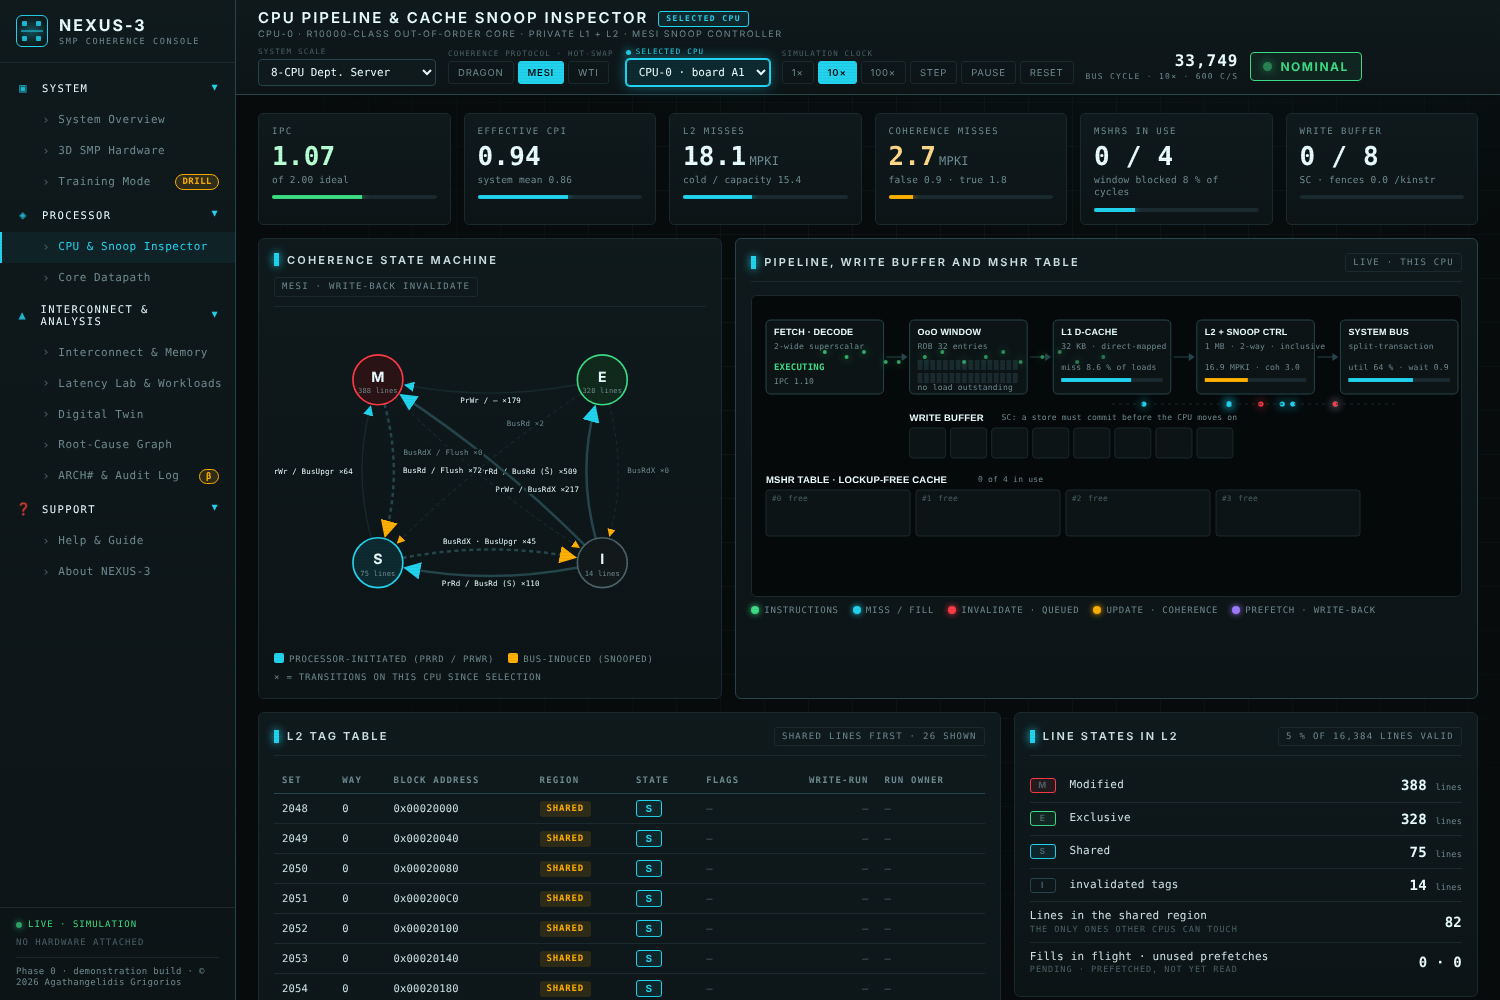
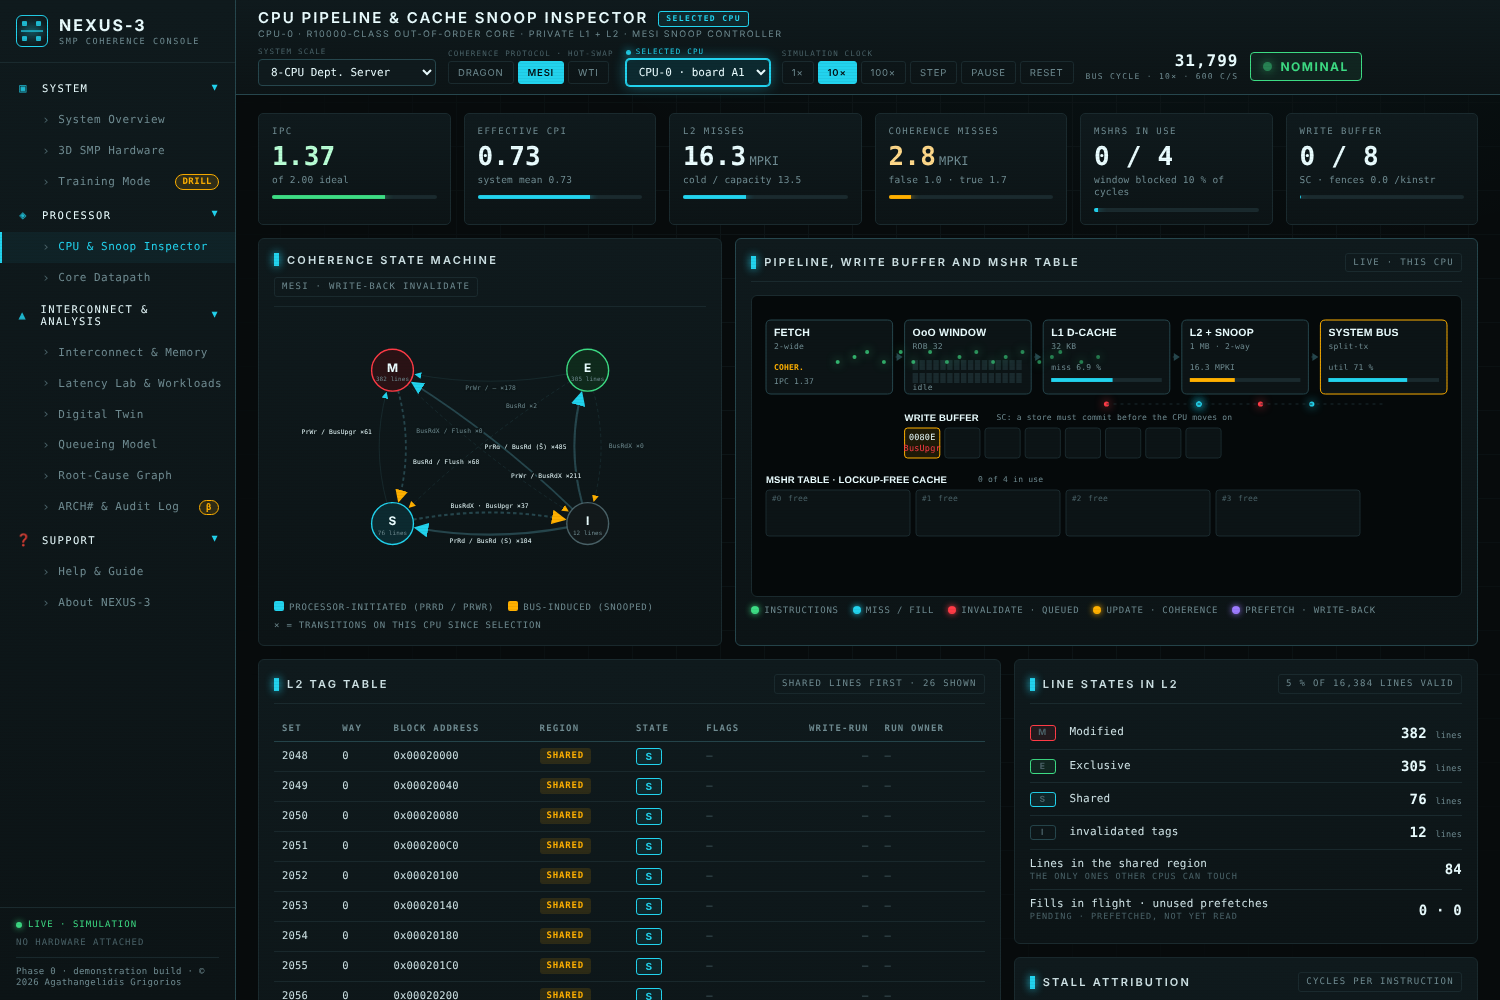
Inspector: fit the pipeline panel, untangle state-diagram labels
- The pipeline, write buffer and MSHR drawing now fits its panel at
  narrow widths instead of being clipped on the right
- The MESI and Dragon state diagrams are wider and their transition
  labels no longer overlap in the centre

Claude-Session: https://claude.ai/code/session_019sxTWBkDigedqxgQFNV5pf

diff --git a/index.html b/index.html
@@ -1365,14 +1365,14 @@ NX.page_('overview',{title:'System Overview',scope:'system',seluse:'partial',
 
 /* ================= PIPELINE & SNOOP INSPECTOR ================= */
 var FSM={
-  MESI:{nodes:{3:[125,72,'M','Modified'],2:[395,72,'E','Exclusive'],1:[125,292,'S','Shared'],0:[395,292,'I','Invalid']},
-    edges:[[0,2,'PrRd / BusRd (S̄)',['0>2:PrRd'],'p',-30],[0,1,'PrRd / BusRd (S)',['0>1:PrRd'],'p',-26],[0,3,'PrWr / BusRdX',['0>3:PrWr'],'p',18,.3],[2,3,'PrWr / —',['2>3:PrWr'],'p',-26],[1,3,'PrWr / BusUpgr',['1>3:PrWr'],'p',-30],
-      [3,1,'BusRd / Flush',['3>1:BusRd'],'b',-30],[2,1,'BusRd',['2>1:BusRd'],'b',18,.26],[3,0,'BusRdX / Flush',['3>0:BusRdX'],'b',18,.3],[2,0,'BusRdX',['2>0:BusRdX'],'b',-30],[1,0,'BusRdX · BusUpgr',['1>0:BusRdX','1>0:BusUpgr'],'b',-26]]},
-  DRAGON:{nodes:{2:[125,82,'E','Exclusive'],1:[395,82,'Sc','Shared-Clean'],4:[395,292,'Sm','Shared-Mod · owner'],3:[125,292,'M','Modified']},
-    edges:[[2,3,'PrWr / —',['2>3:PrWr'],'p',26],[2,1,'BusRd',['2>1:BusRd'],'b',-22],[1,4,'PrWr / BusUpd (S)',['1>4:PrWr'],'p',-30],[1,3,'PrWr / BusUpd (S̄)',['1>3:PrWr'],'p',16,.42],
-      [4,1,'BusUpd',['4>1:BusUpd'],'b',-30],[4,3,'PrWr / BusUpd (S̄)',['4>3:PrWr'],'p',-26],[3,4,'BusRd / supply',['3>4:BusRd'],'b',-26],[4,4,'PrWr / BusUpd (S)',['4>4:PrWr'],'p',0],
+  MESI:{nodes:{3:[170,72,'M','Modified'],2:[450,72,'E','Exclusive'],1:[170,292,'S','Shared'],0:[450,292,'I','Invalid']},
+    edges:[[0,2,'PrRd / BusRd (S̄)',['0>2:PrRd'],'p',-30,.5],[0,1,'PrRd / BusRd (S)',['0>1:PrRd'],'p',-26],[0,3,'PrWr / BusRdX',['0>3:PrWr'],'p',18,.2],[2,3,'PrWr / —',['2>3:PrWr'],'p',-26],[1,3,'PrWr / BusUpgr',['1>3:PrWr'],'p',-30,.64],
+      [3,1,'BusRd / Flush',['3>1:BusRd'],'b',-30,.64],[2,1,'BusRd',['2>1:BusRd'],'b',18,.26],[3,0,'BusRdX / Flush',['3>0:BusRdX'],'b',18,.3],[2,0,'BusRdX',['2>0:BusRdX'],'b',-30,.5],[1,0,'BusRdX · BusUpgr',['1>0:BusRdX','1>0:BusUpgr'],'b',-26]]},
+  DRAGON:{nodes:{2:[170,82,'E','Exclusive'],1:[450,82,'Sc','Shared-Clean'],4:[450,292,'Sm','Shared-Mod · owner'],3:[170,292,'M','Modified']},
+    edges:[[2,3,'PrWr / —',['2>3:PrWr'],'p',26],[2,1,'BusRd',['2>1:BusRd'],'b',-22],[1,4,'PrWr / BusUpd (S)',['1>4:PrWr'],'p',-30,.36],[1,3,'PrWr / BusUpd (S̄)',['1>3:PrWr'],'p',16,.42],
+      [4,1,'BusUpd',['4>1:BusUpd'],'b',-30,.36],[4,3,'PrWr / BusUpd (S̄)',['4>3:PrWr'],'p',-26],[3,4,'BusRd / supply',['3>4:BusRd'],'b',-26],[4,4,'PrWr / BusUpd (S)',['4>4:PrWr'],'p',0],
       [-1,2,'PrRdMiss / BusRd (S̄)',['0>2:PrRd'],'p',0],[-2,1,'PrRdMiss / BusRd (S)',['0>1:PrRd'],'p',0]]},
-  WTI:{nodes:{1:[130,150,'V','Valid'],0:[390,150,'I','Invalid']},
+  WTI:{nodes:{1:[175,150,'V','Valid'],0:[435,150,'I','Invalid']},
     edges:[[0,1,'PrRd / BusRd',['0>1:PrRd'],'p',-44],[1,0,'BusWr (remote write)',['1>0:BusWr'],'b',-44],[1,1,'PrWr / BusWr',[],'p',0]]}
 };
 function fsmSVG(proto,sfx){sfx=sfx||'';
@@ -1393,13 +1393,14 @@ function fsmSVG(proto,sfx){sfx=sfx||'';
   });
   Object.keys(F.nodes).forEach(function(k){var nd=F.nodes[k],sc=['#4a6268',COL.cyan,COL.green,COL.red,COL.amber][k];
     o+='<g class="st"><circle id="fn'+sfx+'-'+k+'" cx="'+nd[0]+'" cy="'+nd[1]+'" r="'+R+'" fill="#0c1416" stroke="'+sc+'" stroke-width="2"/><text x="'+nd[0]+'" y="'+(nd[1]+2)+'">'+nd[2]+'</text><text class="cnt" id="fc'+sfx+'-'+k+'" x="'+nd[0]+'" y="'+(nd[1]+16)+'">'+(sfx?'':'0')+'</text></g>';});
-  return'<svg class="fsm" viewBox="0 0 520 '+(proto==='WTI'?250:392)+'" role="img" aria-label="'+proto+' state-transition diagram">'+o+'</svg>';
+  return'<svg class="fsm" viewBox="0 0 620 '+(proto==='WTI'?250:392)+'" role="img" aria-label="'+proto+' state-transition diagram">'+o+'</svg>';
 }
 var INS={proto:'',prev:{},fire:{},tokens:[],seen:0,ins:0};
 function drawPipe(cv,ts,dt){
   var c=ctx2d(cv),W=c.W,H=c.H,eng=NX.eng,cc=eng.cpu[NX.sel],mc=NX.m.cpus[NX.sel],i;
-  var x0=14,bw=(W-28-4*26)/5,by=24,bh=74,X=function(k){return x0+k*(bw+26);};
-  var names=['FETCH · DECODE','OoO WINDOW','L1 D-CACHE','L2 + SNOOP CTRL','SYSTEM BUS'],subs=[T.WIDTH+'-wide superscalar','ROB '+T.ROB+' entries',T.L1KB+' KB · direct-mapped',(NX.cfg.l2KB>=1024?NX.cfg.l2KB/1024+' MB':NX.cfg.l2KB+' KB')+' · 2-way · inclusive','split-transaction'];
+  var gp=W<760?12:26,x0=14,bw=(W-28-4*gp)/5,cpt=bw<128,by=24,bh=74,X=function(k){return x0+k*(bw+gp);};
+  var names=['FETCH · DECODE','OoO WINDOW','L1 D-CACHE','L2 + SNOOP CTRL','SYSTEM BUS'],subs=cpt?[T.WIDTH+'-wide','ROB '+T.ROB,T.L1KB+' KB',(NX.cfg.l2KB>=1024?NX.cfg.l2KB/1024+' MB':NX.cfg.l2KB+' KB')+' · 2-way','split-tx']:[T.WIDTH+'-wide superscalar','ROB '+T.ROB+' entries',T.L1KB+' KB · direct-mapped',(NX.cfg.l2KB>=1024?NX.cfg.l2KB/1024+' MB':NX.cfg.l2KB+' KB')+' · 2-way · inclusive','split-transaction'];
+  if(cpt)names=['FETCH','OoO WINDOW','L1 D-CACHE','L2 + SNOOP','SYSTEM BUS'];
   c.textBaseline='middle';
   for(i=0;i<5;i++){
     c.fillStyle='#0c1416';c.strokeStyle=i===4?(NX.m.bus.util>.9?COL.red:NX.m.bus.util>.65?COL.amber:COL.hot):COL.hot;c.lineWidth=1;rr(c,X(i),by,bw,bh,5);c.fill();c.stroke();
@@ -1409,19 +1410,19 @@ function drawPipe(cv,ts,dt){
   }
   /* fetch: activity */
   var cat=cc.lastCat,col=CATC[cat];
-  c.fillStyle=col;c.font='600 9px '+MONO;c.fillText(CATN[cat].toUpperCase(),X(0)+8,by+48);
+  c.fillStyle=col;c.font='600 '+(cpt?'8px ':'9px ')+MONO;c.fillText(cpt?CATN[cat].toUpperCase().replace(' STALL','').replace('COHERENCE','COHER.'):CATN[cat].toUpperCase(),X(0)+8,by+48);
   c.fillStyle=COL.dim;c.font='8px '+MONO;c.fillText('IPC '+f(mc.ipc,2),X(0)+8,by+62);
   /* ROB occupancy behind the oldest unresolved load */
   var od=null;for(i=0;i<cc.out.length;i++)if(!cc.out[i].pf&&!cc.out[i].forStore){od=cc.out[i];break;}
   var occ=od?clamp(cc.icnt-od.rob,0,T.ROB):0,cw=(bw-16)/16;
   for(i=0;i<T.ROB;i++){var rx=X(1)+8+(i%16)*cw,ry=by+40+(i>>4)*13;c.fillStyle=i<occ?(occ>=T.ROB?COL.red:COL.cyan):COL.line;c.fillRect(rx,ry,cw-1.5,10);}
-  c.fillStyle=COL.dim;c.font='8px '+MONO;c.fillText(od?'window '+occ+'/'+T.ROB+(occ>=T.ROB?' · BLOCKED':''):'no load outstanding',X(1)+8,by+bh-6);
+  c.fillStyle=COL.dim;c.font='8px '+MONO;c.fillText(od?(cpt?'':'window ')+occ+'/'+T.ROB+(occ>=T.ROB?(cpt?' BLOCKED':' · BLOCKED'):''):(cpt?'idle':'no load outstanding'),X(1)+8,by+bh-6);
   /* L1 / L2 */
-  c.fillStyle=COL.dim;c.fillText('miss '+pc(mc.l1_miss_rate,1)+' % of loads',X(2)+8,by+48);
+  c.fillStyle=COL.dim;c.fillText('miss '+pc(mc.l1_miss_rate,1)+(cpt?' %':' % of loads'),X(2)+8,by+48);
   c.fillStyle=COL.line;c.fillRect(X(2)+8,by+58,bw-16,4);c.fillStyle=COL.cyan;c.fillRect(X(2)+8,by+58,(bw-16)*clamp(mc.l1_miss_rate*8,0,1),4);
-  c.fillStyle=COL.dim;c.fillText(f(mc.l2_mpki,1)+' MPKI · coh '+f(mc.coh_mpki,1),X(3)+8,by+48);
+  c.fillStyle=COL.dim;c.fillText(f(mc.l2_mpki,1)+(cpt?' MPKI':' MPKI · coh '+f(mc.coh_mpki,1)),X(3)+8,by+48);
   c.fillStyle=COL.line;c.fillRect(X(3)+8,by+58,bw-16,4);c.fillStyle=COL.amber;c.fillRect(X(3)+8,by+58,(bw-16)*clamp(mc.l2_mpki/40,0,1),4);
-  c.fillStyle=COL.dim;c.fillText('util '+pc(NX.m.bus.util)+' % · wait '+f(mc.tx_wait,1),X(4)+8,by+48);
+  c.fillStyle=COL.dim;c.fillText('util '+pc(NX.m.bus.util)+(cpt?' %':' % · wait '+f(mc.tx_wait,1)),X(4)+8,by+48);
   c.fillStyle=COL.line;c.fillRect(X(4)+8,by+58,bw-16,4);c.fillStyle=NX.m.bus.util>.9?COL.red:COL.cyan;c.fillRect(X(4)+8,by+58,(bw-16)*NX.m.bus.util,4);
   /* write buffer */
   var wy=by+bh+34,wx=X(1),ww=X(3)+bw*.35-wx,sw=ww/T.WB;
@@ -1465,7 +1466,7 @@ NX.page_('inspector',{title:'CPU Pipeline & Cache Snoop Inspector',scope:'cpu',
   build:function(el){
     el.innerHTML='<div class="grid c6 mb">'+stat('in-ipc','IPC','green','')+stat('in-cpi','Effective CPI','','')+stat('in-mpki','L2 misses','','MPKI')+stat('in-coh','Coherence misses','amber','MPKI')+stat('in-mshr','MSHRs in use','','')+stat('in-wb','Write buffer','','')+'</div>'+
       '<div class="grid c-12 mb">'+panel('Coherence state machine','<span id="in-ptag">—</span>','<div id="in-fsm"></div><div class="kin-legend"><span><i style="background:'+COL.cyan+'"></i>processor-initiated (PrRd / PrWr)</span><span><i style="background:'+COL.amber+'"></i>bus-induced (snooped)</span><span>× = transitions on this CPU since selection</span></div>')+
-      panel('Pipeline, write buffer and MSHR table','live · this CPU','<div class="stage"><canvas id="in-pipe" style="height:300px"></canvas></div><div class="kin-legend"><span><i class="dot" style="background:'+COL.green+';color:'+COL.green+'"></i>instructions</span><span><i class="dot" style="background:'+COL.cyan+';color:'+COL.cyan+'"></i>miss / fill</span><span><i class="dot" style="background:'+COL.red+';color:'+COL.red+'"></i>invalidate · queued</span><span><i class="dot" style="background:'+COL.amber+';color:'+COL.amber+'"></i>update · coherence</span><span><i class="dot" style="background:'+COL.violet+';color:'+COL.violet+'"></i>prefetch · write-back</span></div>','hot')+'</div>'+
+      panel('Pipeline, write buffer and MSHR table','live · this CPU','<div class="stage"><canvas id="in-pipe" style="height:300px;min-width:0"></canvas></div><div class="kin-legend"><span><i class="dot" style="background:'+COL.green+';color:'+COL.green+'"></i>instructions</span><span><i class="dot" style="background:'+COL.cyan+';color:'+COL.cyan+'"></i>miss / fill</span><span><i class="dot" style="background:'+COL.red+';color:'+COL.red+'"></i>invalidate · queued</span><span><i class="dot" style="background:'+COL.amber+';color:'+COL.amber+'"></i>update · coherence</span><span><i class="dot" style="background:'+COL.violet+';color:'+COL.violet+'"></i>prefetch · write-back</span></div>','hot')+'</div>'+
       '<div class="grid c-21">'+panel('L2 tag table','shared lines first · <span id="in-tn">0</span> shown','<div class="tblwrap" style="max-height:420px;overflow:auto"><table><thead><tr><th>Set</th><th>Way</th><th>Block address</th><th>Region</th><th>State</th><th>Flags</th><th class="num">Write-run</th><th>Run owner</th></tr></thead><tbody id="in-tags"></tbody></table></div>')+
       '<div>'+panel('Line states in L2','<span id="in-occ">—</span>','<div id="in-states"></div>','mb')+panel('Stall attribution','cycles per instruction','<canvas class="chart sm" id="in-stall"></canvas><div id="in-detail" style="margin-top:8px"></div>')+'</div></div>';
   },
